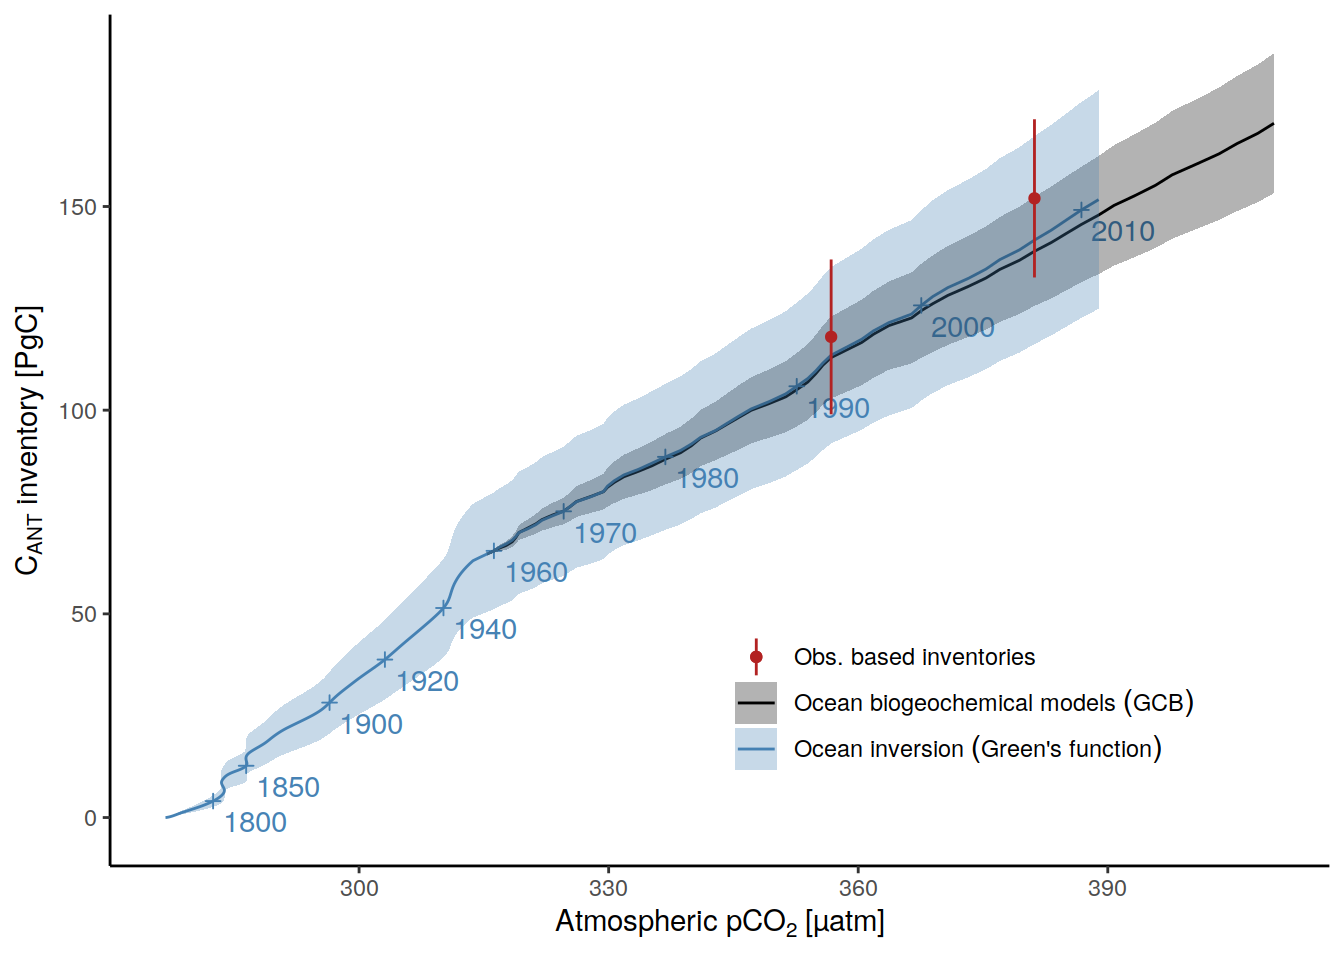
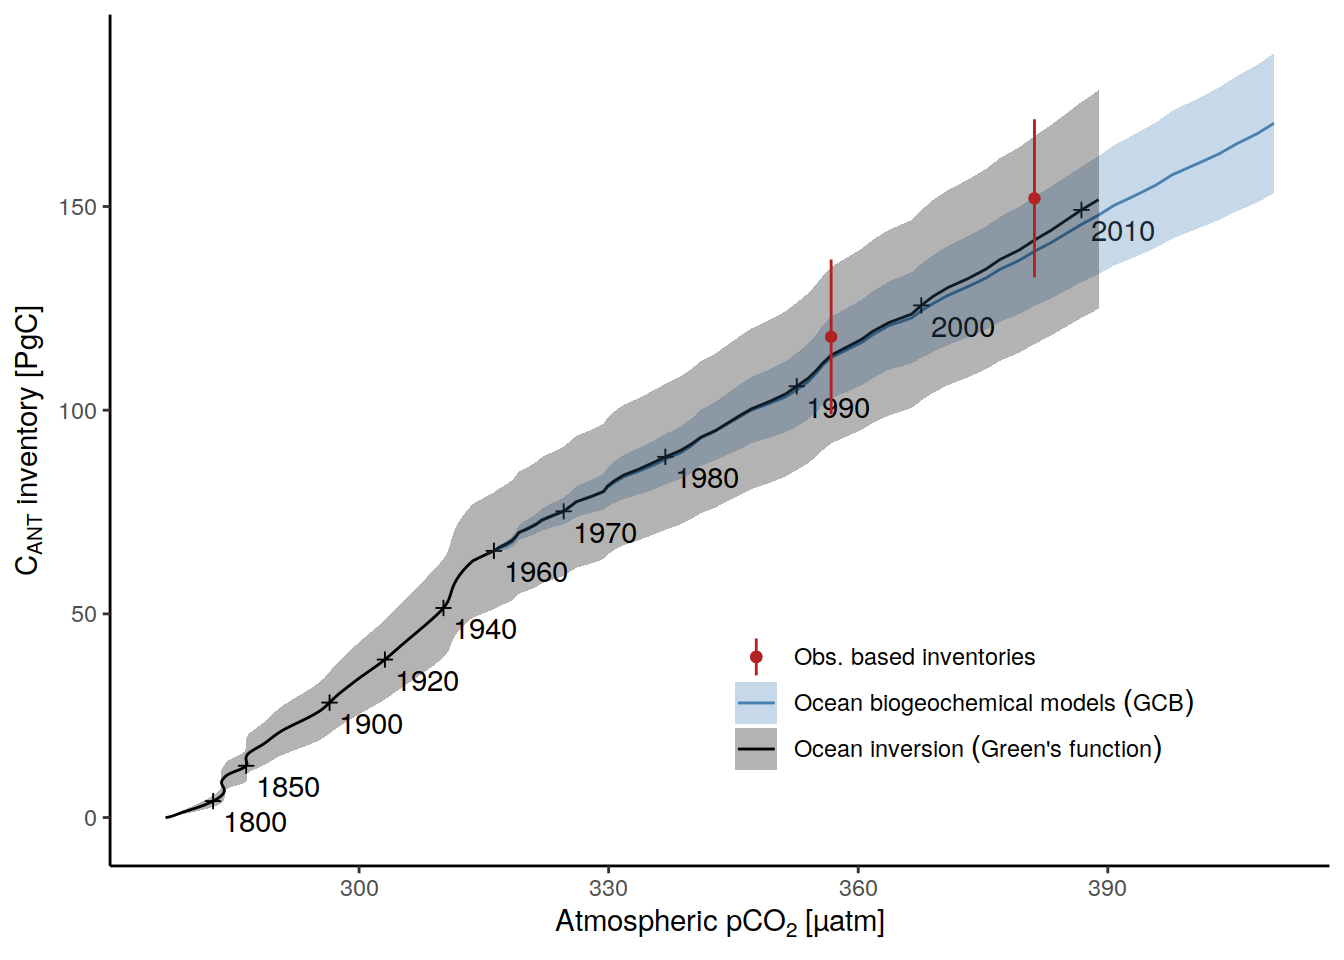
Build site.

Changed region(s): [[0.125, 0.0625, 0.9688, 0.875], [0.5312, 0.6875, 0.5938, 0.8125]]

diff --git a/docs/interior_storage.html b/docs/interior_storage.html
@@ -494,16 +494,16 @@ This reproducible <a href="https://rmarkdown.rstudio.com">R Markdown</a> analysi
 <div class="panel panel-default">
 <div class="panel-heading">
 <p class="panel-title">
-<a data-toggle="collapse" data-parent="#workflowr-checks" href="#strongRepositoryversionstrongahrefhttpsgithubcomjensdanielmuelleroceancarbonsinkreviewtreefa4bef36222f95933057e46db99c6b57dce0f947targetblankfa4bef3a"> <span class="glyphicon glyphicon-ok text-success" aria-hidden="true"></span> <strong>Repository version:</strong> <a href="https://github.com/jens-daniel-mueller/ocean_carbon_sink_review/tree/fa4bef36222f95933057e46db99c6b57dce0f947" target="_blank">fa4bef3</a> </a>
+<a data-toggle="collapse" data-parent="#workflowr-checks" href="#strongRepositoryversionstrongahrefhttpsgithubcomjensdanielmuelleroceancarbonsinkreviewtree89c66d33b6cf7191a5e1f858c1ec7c653a3b053ctargetblank89c66d3a"> <span class="glyphicon glyphicon-ok text-success" aria-hidden="true"></span> <strong>Repository version:</strong> <a href="https://github.com/jens-daniel-mueller/ocean_carbon_sink_review/tree/89c66d33b6cf7191a5e1f858c1ec7c653a3b053c" target="_blank">89c66d3</a> </a>
 </p>
 </div>
[2 lines of base64/hex data omitted]
 <div class="panel-body">
 <p>
 Great! You are using Git for version control. Tracking code development and connecting the code version to the results is critical for reproducibility.
 </p>
 <p>
-The results in this page were generated with repository version <a href="https://github.com/jens-daniel-mueller/ocean_carbon_sink_review/tree/fa4bef36222f95933057e46db99c6b57dce0f947" target="_blank">fa4bef3</a>. See the <em>Past versions</em> tab to see a history of the changes made to the R Markdown and HTML files.
+The results in this page were generated with repository version <a href="https://github.com/jens-daniel-mueller/ocean_carbon_sink_review/tree/89c66d33b6cf7191a5e1f858c1ec7c653a3b053c" target="_blank">89c66d3</a>. See the <em>Past versions</em> tab to see a history of the changes made to the R Markdown and HTML files.
 </p>
 <p>
 Note that you need to be careful to ensure that all relevant files for the analysis have been committed to Git prior to generating the results (you can use <code>wflow_publish</code> or <code>wflow_git_commit</code>). workflowr only checks the R Markdown file, but you know if there are other scripts or data files that it depends on. Below is the status of the Git repository when the results were generated:
@@ -551,6 +551,40 @@ Message
 </tr>
 </thead>
 <tbody>
+<tr>
+<td>
+Rmd
+</td>
+<td>
+<a href="https://github.com/jens-daniel-mueller/ocean_carbon_sink_review/blob/89c66d33b6cf7191a5e1f858c1ec7c653a3b053c/analysis/interior_storage.Rmd" target="_blank">89c66d3</a>
+</td>
+<td>
+jens-daniel-mueller
+</td>
+<td>
+2022-05-03
+</td>
+<td>
+update color Fig.1a
+</td>
+</tr>
+<tr>
+<td>
+html
+</td>
+<td>
+<a href="https://rawcdn.githack.com/jens-daniel-mueller/ocean_carbon_sink_review/9a779b2e7532eea93fb1444e784698313e38939f/docs/interior_storage.html" target="_blank">9a779b2</a>
+</td>
+<td>
+jens-daniel-mueller
+</td>
+<td>
+2022-05-03
+</td>
+<td>
+Build site.
+</td>
+</tr>
 <tr>
 <td>
 Rmd
@@ -2415,9 +2449,9 @@ p &lt;- tcant %&gt;%
   ) +
   geom_linerange(data = tcant %&gt;% filter(method %in% c(&quot;Obs.~based~inventories&quot;))) +
   geom_point(data = tcant %&gt;% filter(method %in% c(&quot;Obs.~based~inventories&quot;))) +
-  scale_fill_manual(values = c(&quot;firebrick&quot;, &quot;black&quot;, &quot;steelblue&quot;),
+  scale_fill_manual(values = c(&quot;firebrick&quot;,  &quot;steelblue&quot;, &quot;black&quot;),
                     labels = parse_format()) +
-  scale_color_manual(values = c(&quot;firebrick&quot;, &quot;black&quot;, &quot;steelblue&quot;),
+  scale_color_manual(values = c(&quot;firebrick&quot;,  &quot;steelblue&quot;, &quot;black&quot;),
                      labels = parse_format()) +
   scale_shape_manual(values = c(19, 3, 3),
                      labels = parse_format()) +
@@ -2426,7 +2460,7 @@ p &lt;- tcant %&gt;%
   guides(
     linetype = guide_legend(override.aes = list(linetype = c(1, 1, 1))),
     shape = guide_legend(override.aes = list(shape = c(19, NA, NA))),
-    fill = guide_legend(override.aes = list(fill = c(&quot;NA&quot;, &quot;black&quot;, &quot;steelblue&quot;)))
+    fill = guide_legend(override.aes = list(fill = c(&quot;NA&quot;,  &quot;steelblue&quot;, &quot;black&quot;)))
   ) +
   labs(x = expression(Atmospheric ~ pCO[2] ~ &quot;[µatm]&quot;),
        y = expression(C[ANT] ~ inventory ~ &quot;[PgC]&quot;)) +
@@ -2724,6 +2758,17 @@ Date
 <tbody>
 <tr>
 <td>
+<a href="https://github.com/jens-daniel-mueller/ocean_carbon_sink_review/blob/9a779b2e7532eea93fb1444e784698313e38939f/docs/figure/interior_storage.Rmd/atm_co2_time_series_inlet-1.png" target="_blank">9a779b2</a>
+</td>
+<td>
+jens-daniel-mueller
+</td>
+<td>
+2022-05-03
+</td>
+</tr>
+<tr>
+<td>
 <a href="https://github.com/jens-daniel-mueller/ocean_carbon_sink_review/blob/95fb383471787d7c40a736b198d15659b7428d4d/docs/figure/interior_storage.Rmd/atm_co2_time_series_inlet-1.png" target="_blank">95fb383</a>
 </td>
 <td>
@@ -2779,6 +2824,43 @@ pushViewport(vp)
 grid.draw(ggplotGrob(g_inset))
 upViewport()</code></pre>
 <p><img src="figure/interior_storage.Rmd/atm_co2_time_series_inlet-2.png" width="672" style="display: block; margin: auto;" /></p>
+<p>
+<button type="button" class="btn btn-default btn-xs btn-workflowr btn-workflowr-fig" data-toggle="collapse" data-target="#fig-atm_co2_time_series_inlet-2">
+Past versions of atm_co2_time_series_inlet-2.png
+</button>
+</p>
+<div id="fig-atm_co2_time_series_inlet-2" class="collapse">
+<div class="table-responsive">
+<table class="table table-condensed table-hover">
+<thead>
+<tr>
+<th>
+Version
+</th>
+<th>
+Author
+</th>
+<th>
+Date
+</th>
+</tr>
+</thead>
+<tbody>
+<tr>
+<td>
+<a href="https://github.com/jens-daniel-mueller/ocean_carbon_sink_review/blob/9a779b2e7532eea93fb1444e784698313e38939f/docs/figure/interior_storage.Rmd/atm_co2_time_series_inlet-2.png" target="_blank">9a779b2</a>
+</td>
+<td>
+jens-daniel-mueller
+</td>
+<td>
+2022-05-03
+</td>
+</tr>
+</tbody>
+</table>
+</div>
+</div>
 <pre class="r"><code>pdf(here::here(&quot;output/Fig1a.pdf&quot;),
     width = 7,
     height = 5)
